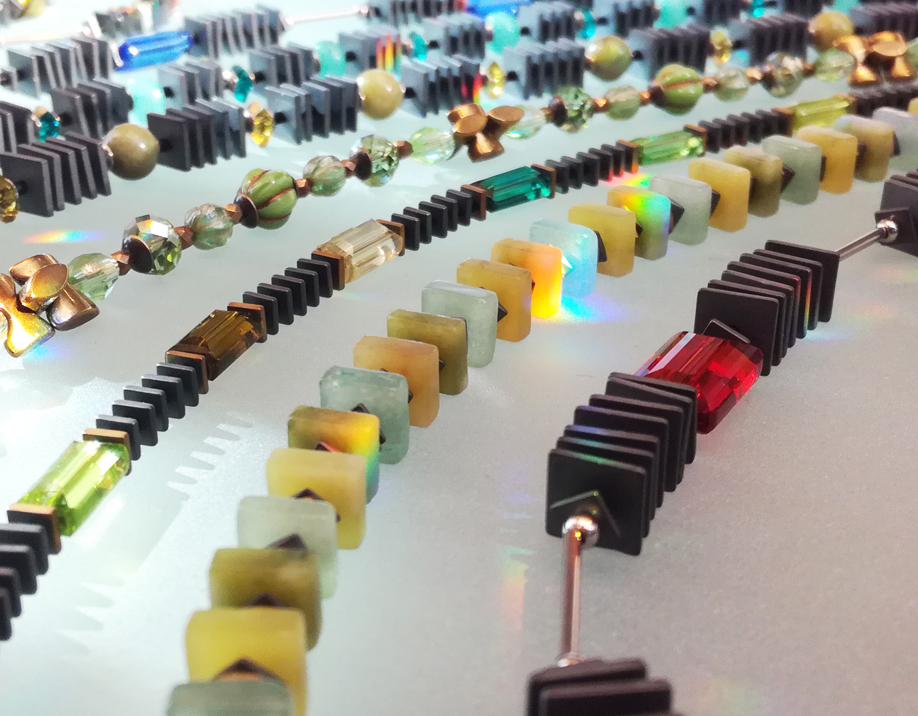
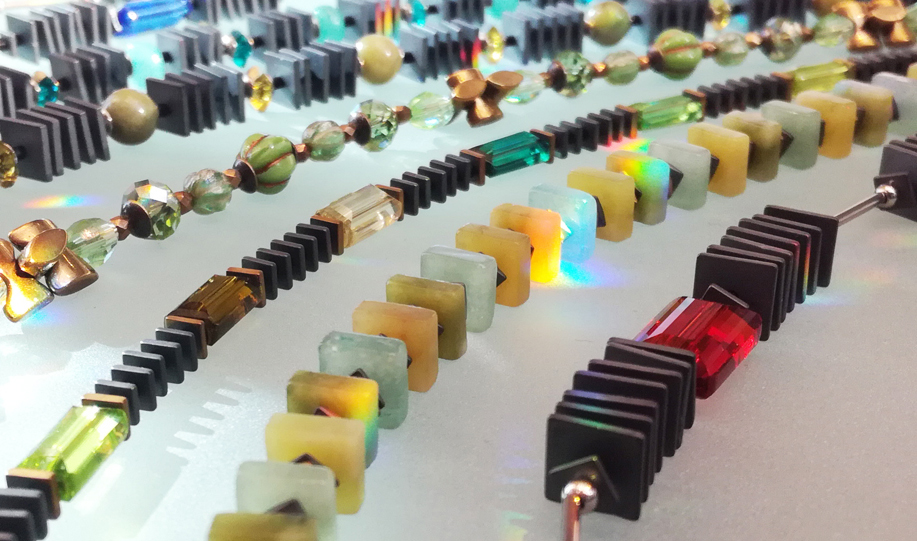
cut

diff --git a/Impressum.html b/Impressum.html
@@ -13,7 +13,7 @@
 	</head>
 	
 <body>
-			<img src="images/ketten2.jpg" alt="banner" class="banner">
+			<img src="images/ketten3.jpg" alt="banner" class="banner">
 			</br>
 										<div class="container5">
 
